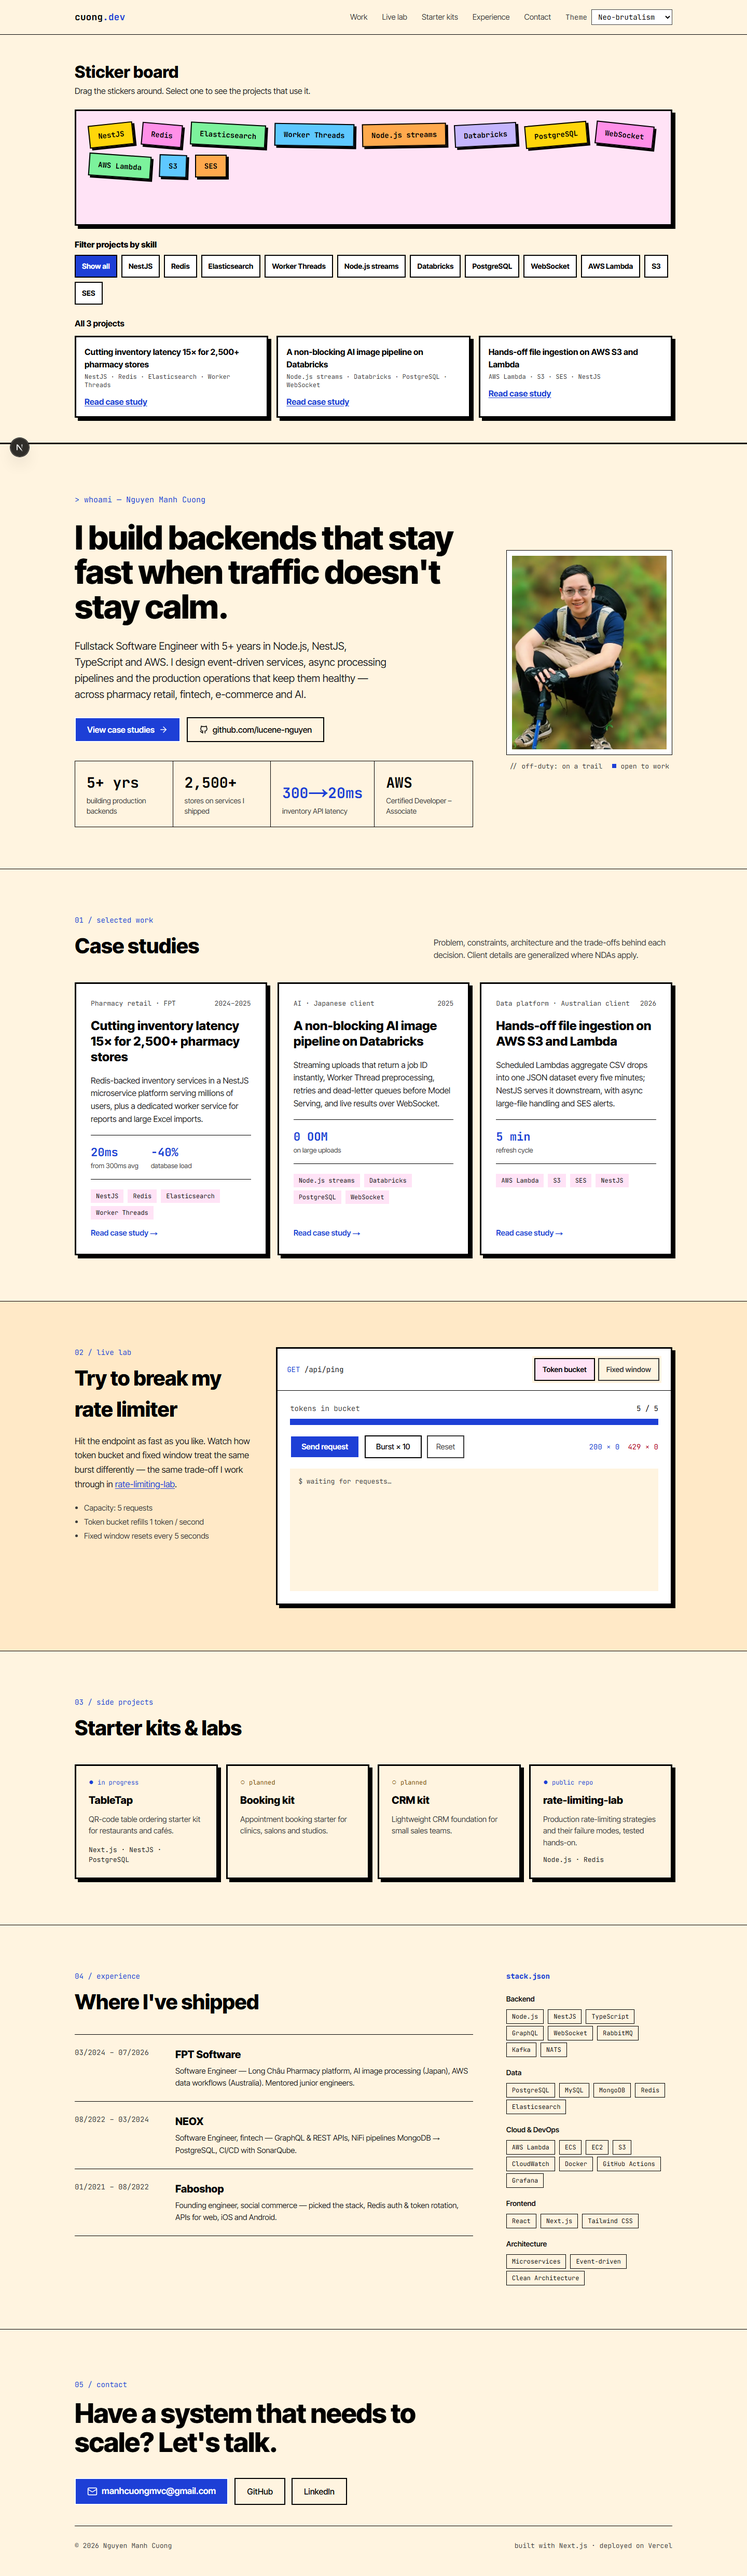
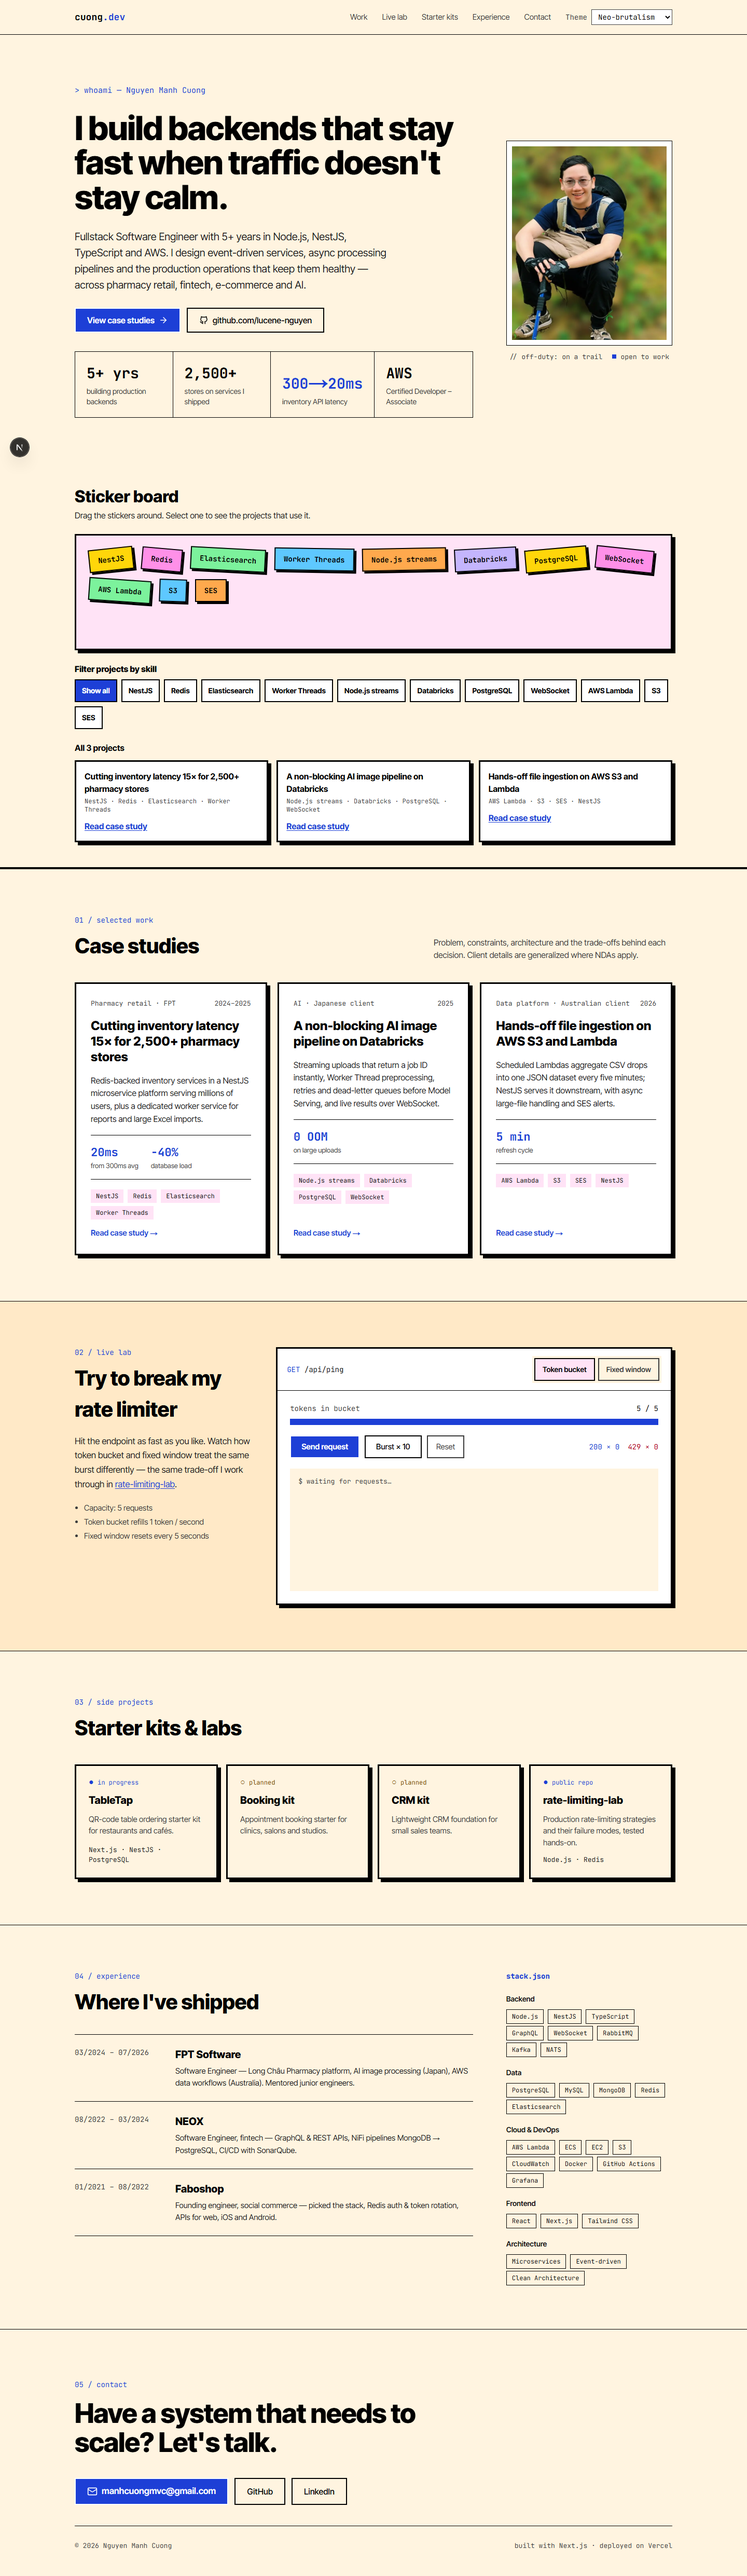
fix(ui): hero-first review fixes - slot assertions, entry naming, spec update; screenshots

Changed region(s): [[0.0938, 0.0312, 0.9062, 0.3435]]

diff --git a/e2e/hero-first.spec.ts b/e2e/hero-first.spec.ts
@@ -1,23 +1,31 @@
 import { expect, test } from "@playwright/test";
 import { themes } from "../themes/registry";
 
-// Every theme opens with the shared hero; a theme's signature block comes directly after it.
+// Themes whose signature block lives directly below the shared hero.
+const withBlock = new Set([
+  "blueprint",
+  "dashboard",
+  "bento",
+  "neo-brutalism",
+  "anime",
+  "3d-world",
+]);
+
 for (const { id } of themes) {
   test(`hero first: ${id}`, async ({ page }) => {
     await page.goto(`/?theme=${id}`);
     await expect(page.locator("html")).toHaveAttribute("data-theme", id);
-    await page.waitForLoadState("networkidle").catch(() => {});
+    // The hero is the first element of <main>, the theme slot right after it.
     const order = await page
       .locator("main")
-      .evaluate((m) =>
-        [...m.children]
-          .filter((c) => c.id === "top" || c.id === "theme-slot-home")
-          .map((c) => c.id),
-      );
+      .evaluate((m) => [...m.children].slice(0, 2).map((c) => c.id));
     expect(order).toEqual(["top", "theme-slot-home"]);
-    const firstVisible = await page
-      .locator("main")
-      .evaluate((m) => [...m.querySelectorAll("section")].find((s) => s.offsetParent !== null)?.id);
-    expect(firstVisible).toBe("top");
+    const slot = page.locator("#theme-slot-home > *");
+    if (withBlock.has(id)) await expect(slot).not.toHaveCount(0);
+    else {
+      // Give lazy theme chunks time to mount before asserting the slot stays empty.
+      await page.waitForTimeout(500);
+      await expect(slot).toHaveCount(0);
+    }
   });
 }

diff --git a/themes/3d-world/layout.tsx b/themes/3d-world/layout.tsx
@@ -164,7 +164,6 @@ function World({ onExit }: { onExit: (zone?: Zone["id"]) => void }) {
   );
 }
 
-/** Opens the 3D world over the standard page; skipping or entering a zone returns to the standard layout. */
 /** The 3D world opens from an entry block below the home hero; closing it returns to the standard page. */
 export default function WorldLayout({ children }: { children: React.ReactNode }) {
   const [open, setOpen] = useState(false);
@@ -197,7 +196,7 @@ export default function WorldLayout({ children }: { children: React.ReactNode })
             <div className={`${container} flex flex-wrap items-center justify-between gap-6 py-12`}>
               <div className="max-w-xl">
                 <h2 id="world-entry-title" className="text-[28px] font-bold">
-                  {c.title}
+                  {c.entryTitle}
                 </h2>
                 <p className="mt-2 text-text-secondary">{c.instructions}</p>
               </div>

diff --git a/e2e/3d-world.spec.ts b/e2e/3d-world.spec.ts
@@ -41,8 +41,10 @@ test("Three.js loads only in this theme; no model/texture assets", async ({ page
 test("entry sits below the hero; Skip to content exits and focuses main", async ({ page }) => {
   await page.goto("/?theme=3d-world");
   await expect(world(page)).toHaveCount(0);
-  const entry = page.getByRole("region", { name: "3D world" });
+  const entry = page.getByRole("region", { name: "Explore in 3D" });
   expect(await entry.evaluate((el) => el.parentElement?.previousElementSibling?.id)).toBe("top");
+  const { violations } = await new AxeBuilder({ page }).exclude("nextjs-portal").analyze();
+  expect(violations.map((v) => v.id)).toEqual([]);
   await entry.getByRole("button", { name: "Enter 3D world" }).click();
   await world(page).getByRole("button", { name: "Skip to content" }).click();
   await expect(world(page)).toBeHidden();

diff --git a/content/home.ts b/content/home.ts
@@ -253,6 +253,7 @@ export const mangaCopy = {
 
 export const worldCopy = {
   title: "3D world",
+  entryTitle: "Explore in 3D",
   instructions:
     "Walk with the arrow keys or W A S D (or the on-screen pad). Step onto a glowing pad to open that section.",
   canvasLabel: "3D world. Use arrow keys or W A S D to walk; reaching a pad opens its section.",

diff --git a/docs/specs/LEARNING-155-3d-world.md b/docs/specs/LEARNING-155-3d-world.md
@@ -9,7 +9,8 @@ A small explorable 3D scene where each zone is a site section.
 - Design rules persisted with ui-ux-pro-max: `design-system/portfolio-v3/pages/3d-world.md`.
 - `lib/world.ts`: movement, bounds, zones, key mapping (unit-tested).
 - `themes/3d-world/scene.ts`: Three.js scene (procedural, no assets), dynamically imported by the theme layout.
-- `themes/3d-world/layout.tsx`: full-screen world dialog with HUD (skip, zone buttons, movement pad), session-closed state, "Enter 3D world".
+- `themes/3d-world/layout.tsx`: full-screen world dialog with HUD (skip, zone buttons, movement pad), opened from an "Explore in 3D" entry block below the home hero (home page only).
+- Changed in UI round 1 §1 (`docs/specs/ui-round-1.md`): the world no longer opens automatically on first visit or on case-study pages; the floating "Enter 3D world" button was replaced by the entry block.
 
 ## Acceptance criteria
 - AC1: `design-system/portfolio-v3/pages/3d-world.md` exists with the exact tokens.
